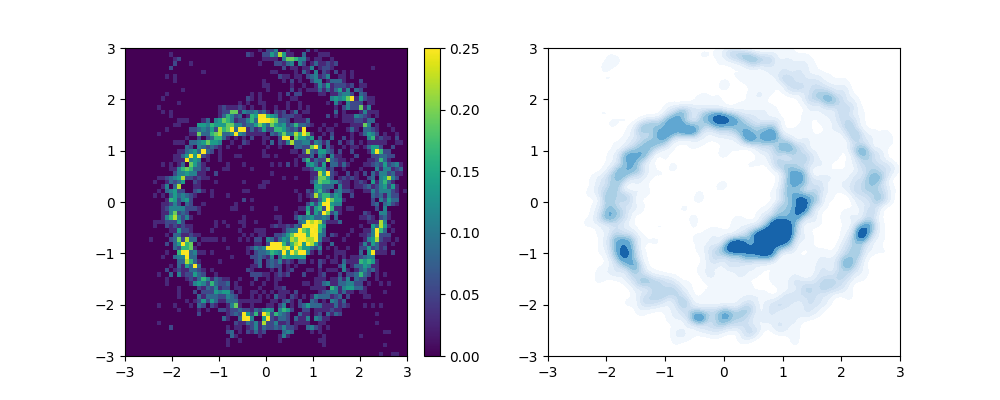
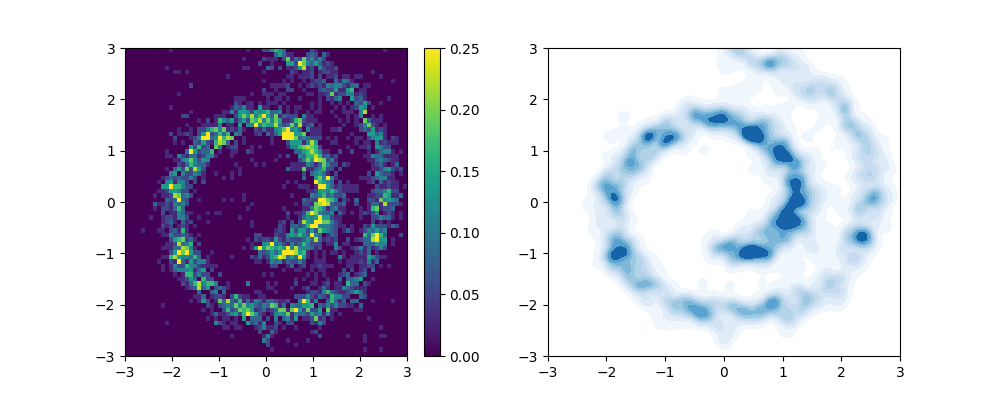
generic commit

diff --git a/scripts/transport/kvae_flow.py b/scripts/transport/kvae_flow.py
@@ -721,7 +721,7 @@ def run():
     N = 2000
     batch_size = 2000
     two_d_exp(ref_gen, sample_swiss_roll, N=N, n_iter=49, plt_range=[[-3, 3], [-3, 3]], process_funcs=[],
-              skip_idx=1, slice_vals=[0], slice_range=[-3,3], exp_name='exp', n_transports=40, vmax=.25,
+              skip_idx=1, slice_vals=[0], slice_range=[-3,3], exp_name='exp', n_transports=60, vmax=.25,
               batch_size = batch_size, reg_lambda= 1e-5, N_plot = 5000)
 
     #vl_exp(batch_size=4500, n_transports=125)
